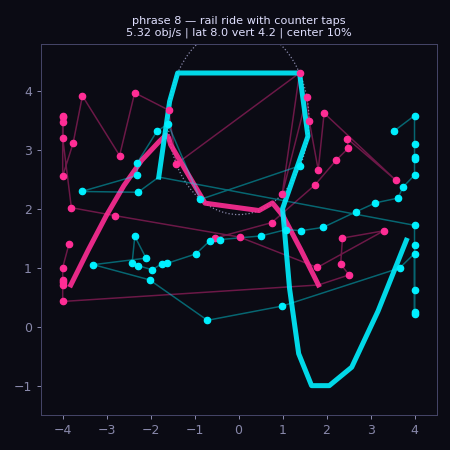
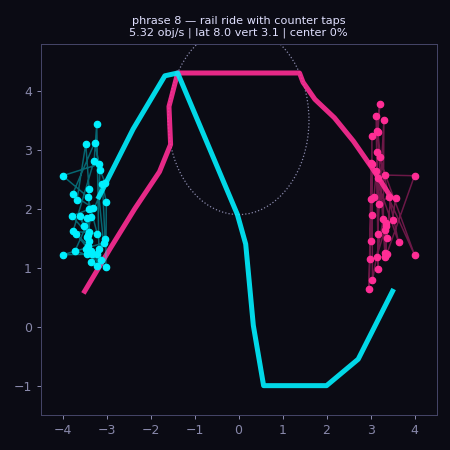
DanceChoreographyPass: bar-repeated groove gestures + GrooveScore
Preserve the timing/build-up gains; add dance grammar on top (no rewrite).
- dance.py: named groove per section (side_to_side, push_pull, wave_sweep,
  open_close, diagonal_climb, drop_expansion). Position = a one-bar GESTURE
  repeated across the phrase with an A/A/A'/B width envelope (introduce,
  repeat, widen, pay off) so the player gets a groove to follow. Strong beats
  (downbeat/backbeat) reach the gesture extreme; weak beats sit inner ->
  downbeats look stronger. Rhythmic-confidence role per object.
- mapgen: placement now samples dance_position (replacing the single long
  path); rails anchor to the groove and sweep wide; center-gravity limiter
  nudges weak-beat center notes outward; shatters = phrase payoff.
- evaluator: GrooveScore per phrase (beat lock, bar-motif repetition, L/R
  balance, center, lateral, payoff) + report fields; motion-smoothness now
  only flags reversals that are NOT a repeated motif (a clean bounce is a
  groove, not scatter).

Fuego: avg 3.97 obj/s, center 9%, GrooveScore 0.9, rails 0% straight,
VERDICT: Master. 76 tests pass.

diff --git a/synthcopilot/mapgen.py b/synthcopilot/mapgen.py
@@ -182,7 +182,7 @@ def generate_map(
     # during sustained melodic moments the same path is *emitted* as a rail,
     # so rails connect into the surrounding notes by construction — and while
     # one hand rides a rail, the other keeps tapping (counterpoint).
-    from synthcopilot.paths import make_path
+    from synthcopilot.dance import dance_position
 
     rails_added = 0
     rail_windows: list[tuple[float, float, int]] = []   # (start, end, hand)
@@ -211,12 +211,15 @@ def generate_map(
             while w + RAIL_SWEEP_BEATS <= min(ph.end_beat, total_beats):
                 we = w + RAIL_SWEEP_BEATS
                 if any(s < we and w < e for s, e, _m in spans):
-                    path = make_path(ph, hand_cycle, spread)
-                    # Anchor to the hand path at both ends (continuity with the
-                    # surrounding notes), but SHAPE the body into an expressive
-                    # curve — arc / wave / S-curve / spiral — so it reads as
-                    # choreography, never a straight connector.
-                    p0, p1 = path(w), path(we)
+                    # A rail is a big HAND GESTURE: start anchored to the groove
+                    # position, sweep across the grid to a wide contrasting
+                    # release (a theatrical arm sweep), shaped into an
+                    # expressive curve — never a straight connector.
+                    g0 = dance_position(ph, hand_cycle, w, spread, 0.5)
+                    sweep = -1.0 if g0[0] > 0 else 1.0
+                    p0 = (g0[0], g0[1])
+                    p1 = (sweep * (2.4 + 1.1 * spread),
+                          (3.4 if g0[1] < 2.0 else 0.6))   # cross + climb/drop
                     shape = _RAIL_SHAPES[(shape_cycle + ph.index) % len(_RAIL_SHAPES)]
                     nodes = _shaped_rail(p0, p1, w, we, shape, spread,
                                          1.0 if hand_cycle == HAND_RIGHT else -1.0)
@@ -383,7 +386,6 @@ def _place_flow_notes(diff, onsets, snares, centroid_fn, intensity_at, phrases,
     # Quantize onsets to the grid, dedupe per slot keeping the strongest. The
     # phrase's MOTIF rhythm signature boosts its slots so the same rhythmic
     # figure recurs every phrase of that label — repetition the player learns.
-    from synthcopilot.paths import make_path
     from synthcopilot.phrases import phrase_at
 
     # RHYTHM SLOT ENGINE: musically meaningful slots, not just onsets. Every
@@ -435,17 +437,12 @@ def _place_flow_notes(diff, onsets, snares, centroid_fn, intensity_at, phrases,
         kept.extend(sorted(top, key=lambda c: c[0]))
     kept.sort(key=lambda c: c[0])
 
-    # --- Notes ride the choreography paths ------------------------------- #
+    # --- DanceChoreographyPass: notes sit on the phrase's repeated groove --- #
+    from synthcopilot.dance import dance_position
+
     notes_added = 0
     prev_hand = HAND_LEFT
     pos: dict[int, tuple[float, float, float] | None] = {HAND_RIGHT: None, HAND_LEFT: None}
-    path_cache: dict[tuple[int, int], object] = {}
-
-    def hand_path(ph, hand, spread):
-        key = (ph.index, hand)
-        if key not in path_cache:
-            path_cache[key] = make_path(ph, hand, spread)
-        return path_cache[key]
 
     for beat, _score, t_sec in kept:
         ph = phrase_at(phrases, beat)
@@ -455,16 +452,14 @@ def _place_flow_notes(diff, onsets, snares, centroid_fn, intensity_at, phrases,
 
         railing = _railing_hand(beat, rail_windows)
 
-        # SNARE SHATTER: both hands accent together at their paths' positions,
-        # pushed outward — a readable two-handed impact. Builds/choruses only,
-        # and never while a hand is committed to a rail.
+        # SNARE SHATTER = phrase payoff: both hands fling wide together (the
+        # mirrored drop hit). Builds/choruses only, never over a rail.
         if beat in shatter_beats and ph.shatters and railing is None:
             for h in (HAND_LEFT, HAND_RIGHT):
-                px, py = hand_path(ph, h, spread)(beat)
-                px += math.copysign(0.8 + 0.4 * spread, px)   # fling outward
-                py += (b - 0.5) * 1.2
-                x2, y2 = _reach_clamp(px, py, pos[h], t_sec, max_hand_speed,
-                                      math.copysign(1.0, px))
+                gx, gy, _role = dance_position(ph, h, beat, spread, b)
+                gx += math.copysign(0.8 + 0.5 * spread, gx or (1.0 if h == HAND_RIGHT else -1.0))
+                x2, y2 = _reach_clamp(gx, gy, pos[h], t_sec, max_hand_speed,
+                                      math.copysign(1.0, gx))
                 diff.notes.append(Note(time=round(beat, 4), x=round(x2, 4),
                                        y=round(y2, 4), hand_type=h))
                 pos[h] = (x2, y2, t_sec)
@@ -478,13 +473,17 @@ def _place_flow_notes(diff, onsets, snares, centroid_fn, intensity_at, phrases,
         else:
             hand = HAND_RIGHT if prev_hand == HAND_LEFT else HAND_LEFT
 
-        px, py = hand_path(ph, hand, spread)(beat)
-        py += (b - 0.5) * 1.2                          # brightness lifts/lowers
-        px += rng.uniform(-0.12, 0.12)
-        py += rng.uniform(-0.12, 0.12)
+        # DANCE PASS: position = the phrase's repeated groove gesture, accented
+        # by beat strength. Center-gravity limiter: a weak beat that lands in
+        # the center box is nudged outward unless it's a deliberate downbeat.
+        gx, gy, role = dance_position(ph, hand, beat, spread, b)
+        if abs(gx) < 1.0 and 1.3 < gy < 2.4 and not role.startswith("strong"):
+            gx += math.copysign(1.4, gx or (1.0 if hand == HAND_RIGHT else -1.0))
+        gx += rng.uniform(-0.1, 0.1)
+        gy += rng.uniform(-0.1, 0.1)
 
-        x, y = _reach_clamp(px, py, pos[hand], t_sec, max_hand_speed,
-                            math.copysign(1.0, px) if px else 1.0)
+        x, y = _reach_clamp(gx, gy, pos[hand], t_sec, max_hand_speed,
+                            math.copysign(1.0, gx) if gx else 1.0)
         diff.notes.append(Note(time=round(beat, 4), x=round(x, 4),
                                y=round(y, 4), hand_type=hand))
         notes_added += 1

diff --git a/tools/evaluate_map.py b/tools/evaluate_map.py
@@ -256,11 +256,14 @@ def _reversal_frac(seq):
 
 
 def m_motion_smoothness(objs, n_phrases):
-    """[3] Motion-path quality: do the per-hand note sequences flow, or jag?"""
+    """[3] Motion-path quality. A direction reversal is only "target practice"
+    if it is NOT a repeated motif: a clean side-to-side bounce reverses on
+    purpose (high repeat), random scatter reverses AND doesn't repeat. So a
+    phrase fails only when reversals are high AND its bar-to-bar repetition is
+    low."""
     fails = []
-    total_sharp = 0
-    total_pts = 0
-    worst = []
+    total_sharp = total_pts = 0
+    scatter = []
     for p in range(n_phrases):
         po = _phrase_objs(objs, p)
         ph_sharp = ph_pts = 0
@@ -274,15 +277,69 @@ def m_motion_smoothness(objs, n_phrases):
         total_pts += ph_pts
         if ph_pts >= 8:
             pf = ph_sharp / ph_pts
-            if pf > 0.35:
-                worst.append((p, pf))
+            repeat = _bar_motif_repeat(sorted(po, key=lambda o: o.beat))
+            if pf > 0.35 and repeat < 0.55:        # jagged AND not a repeated groove
+                scatter.append((p, pf, repeat))
     overall = total_sharp / max(total_pts, 1)
-    if overall > 0.30:
-        fails.append(f"hand paths jagged: {overall:.0%} of moves sharply reverse "
-                     f"(> 30% = tangle, not choreography)")
-    for p, pf in worst[:6]:
-        fails.append(f"phrase {p}: {pf:.0%} sharp reversals (target-practice motion)")
-    return {"reversal_frac": round(overall, 3)}, fails
+    if scatter:
+        for p, pf, rep in scatter[:6]:
+            fails.append(f"phrase {p}: {pf:.0%} reversals with low repeat "
+                         f"{rep:.2f} (scatter, not a groove)")
+    return {"reversal_frac": round(overall, 3), "scatter_phrases": len(scatter)}, fails
+
+
+def _bar_motif_repeat(seq):
+    """How repeated is the per-bar motion shape? Compares each bar's mean
+    position to the phrase's bar-mean; low variance across bars = a repeated
+    groove (1.0), high variance = a new idea every bar (0.0)."""
+    bars = {}
+    for o in seq:
+        bars.setdefault(int((o.beat % PHRASE_BEATS) // 4.0), []).append((o.x, o.y))
+    if len(bars) < 2:
+        return 1.0
+    centroids = [np.mean(v, axis=0) for v in bars.values() if v]
+    spread = np.mean([np.linalg.norm(c - np.mean(centroids, axis=0)) for c in centroids])
+    return float(max(0.0, 1.0 - spread / 3.0))
+
+
+def m_groove(objs, n_phrases, bpm):
+    """[GrooveScore] per phrase: beat lock, motif repetition, L/R relationship,
+    payoff, center gravity, and dance feel (lateral travel)."""
+    spb = 60.0 / bpm
+    rows = []
+    fails = []
+    for p in range(n_phrases):
+        po = _phrase_objs(objs, p)
+        if len(po) < 4:
+            continue
+        xs = np.array([o.x for o in po]); ys = np.array([o.y for o in po])
+        beats = [o.beat for o in po]
+        lock = np.mean([abs(b * 4 - round(b * 4)) < 0.06 for b in beats])
+        repeat = _bar_motif_repeat(sorted(po, key=lambda o: o.beat))
+        L = sum(1 for o in po if o.hand == 1); R = len(po) - L
+        relate = min(L, R) / max(L + R, 1) * 2          # 1.0 = balanced hands
+        center = float(np.mean((np.abs(xs) < 1.0) & (ys > 1.3) & (ys < 2.4)))
+        cen_ok = 1.0 - min(1.0, center / 0.35)
+        lateral = float(xs.max() - xs.min())
+        dance = min(1.0, lateral / 4.0)
+        # payoff: a wide or dual-note event in the last bar
+        last_bar = [o for o in po if o.beat >= (p + 1) * PHRASE_BEATS - 4.0]
+        payoff = any(abs(o.x) > 2.5 for o in last_bar) or \
+            len({round(o.beat, 2) for o in last_bar}) < len(last_bar)
+        gs = (0.22 * lock + 0.20 * repeat + 0.16 * relate + 0.18 * cen_ok
+              + 0.14 * dance + 0.10 * (1.0 if payoff else 0.0))
+        rows.append({"phrase": p, "groove": round(gs, 2), "lock": round(float(lock), 2),
+                     "repeat": round(repeat, 2), "relate": round(relate, 2),
+                     "center": round(center, 2), "lateral": round(lateral, 1),
+                     "payoff": payoff})
+        if gs < 0.6:
+            fails.append(f"phrase {p}: GrooveScore {gs:.2f} < 0.60 "
+                         f"(repeat {repeat:.2f}, center {center:.0%}, "
+                         f"payoff {'y' if payoff else 'N'})")
+    avg = float(np.mean([r["groove"] for r in rows])) if rows else 0.0
+    if avg < 0.6:
+        fails.append(f"average GrooveScore {avg:.2f} < 0.60")
+    return {"rows": rows, "avg": round(avg, 2)}, fails
 
 
 def m_counterpoint(objs, n_phrases):
@@ -416,7 +473,8 @@ def evaluate(path, bpm, make_plots, outdir):
     cp, f5 = m_counterpoint(objs, n_phrases)
     drop, f6 = m_drop(objs, n_phrases, bpm)
     motion, f7 = m_motion_smoothness(objs, n_phrases)
-    all_fails = f1 + f2 + f3 + f4 + f5 + f6 + f7
+    groove, f8 = m_groove(objs, n_phrases, bpm)
+    all_fails = f1 + f2 + f3 + f4 + f5 + f6 + f7 + f8
     v = verdict(density, drop, all_fails)
 
     print("=" * 64)
@@ -434,11 +492,15 @@ def evaluate(path, bpm, make_plots, outdir):
     print(f"[6] COUNTERPOINT rail_support={cp['rail_support_frac']:.0%}")
     print(f"[7] DROP verse={drop['verse_ops']}obj/s/{drop['verse_width']}u  "
           f"drop={drop['drop_ops']}obj/s/{drop['drop_width']}u")
-    print("\n[5] PHRASE CHOREOGRAPHY:")
+    print(f"[G] GROOVESCORE avg={groove['avg']}")
+    print("\n[5] PHRASE CHOREOGRAPHY + GROOVE:")
+    gmap = {g["phrase"]: g for g in groove["rows"]}
     for r in rows:
-        print(f"    p{r['phrase']:>2} {r['label']:<34} {r['ops']:>4} obj/s "
-              f"lat={r['lateral']:>4} vert={r['vertical']:>4} center={r['center_frac']:.0%} "
-              f"travel={r['travel']}")
+        g = gmap.get(r["phrase"], {})
+        gs = f"groove={g.get('groove', '-'):<4} repeat={g.get('repeat', '-')} " \
+             f"payoff={'Y' if g.get('payoff') else 'n'}" if g else ""
+        print(f"    p{r['phrase']:>2} {r['label']:<24} {r['ops']:>4}o/s "
+              f"lat={r['lateral']:>4} center={r['center_frac']:.0%}  {gs}")
     print("\nFAILURES:")
     if all_fails:
         for f in all_fails:

diff --git a/synthcopilot/dance.py b/synthcopilot/dance.py
@@ -1,0 +1,154 @@
+"""DanceChoreographyPass — turn beat-synced waypoints into repeated grooves.
+
+The timing (which beats hold objects) is already good; this layer decides
+*where* each object sits so a phrase reads as a short dance combo rather than
+scattered targets. The key idea is **bar-periodic motifs**: a one-bar gesture
+is repeated across the phrase with an A / A / A' / B structure (introduce,
+repeat, widen, pay off), so the player gets a groove to lock onto.
+
+A gesture is a function of the WITHIN-BAR phase (0..1), so consecutive bars
+reuse the same shape; the phrase position only widens/lifts it. Strong beats
+(downbeats / backbeats) push to the gesture's extreme; weak beats sit inner —
+making downbeats visibly stronger.
+"""
+
+from __future__ import annotations
+
+import math
+
+from synthcopilot.models import HAND_LEFT
+
+BAR = 4.0
+
+# One named groove per section label (chorus rotates for motif variety while
+# staying recognizable). These are the "dance combos" the player follows.
+GROOVE_BY_LABEL = {
+    "intro":     ["side_to_side"],
+    "verse":     ["side_to_side", "push_pull"],
+    "build":     ["diagonal_climb"],
+    "chorus":    ["drop_expansion", "open_close", "wave_sweep"],
+    "breakdown": ["wave_sweep"],
+    "outro":     ["side_to_side"],
+}
+
+
+def groove_for(phrase) -> str:
+    opts = GROOVE_BY_LABEL.get(phrase.label, ["side_to_side"])
+    return opts[phrase.occurrence % len(opts)]
+
+
+def _bar_structure(bar_idx: int, n_bars: int):
+    """A/A/A'/B motif envelope: width grows toward the phrase end; the final
+    bar is the payoff. Returns (width_mult, is_payoff)."""
+    if n_bars <= 1:
+        return 1.0, True
+    pos = bar_idx / (n_bars - 1)
+    width = 0.82 + 0.45 * pos            # introduce -> widen
+    payoff = bar_idx >= n_bars - 1
+    return width, payoff
+
+
+def beat_role(beat: float, phase: float, phrase) -> str:
+    """Rhythmic confidence label used for accent strength + the debug report."""
+    bar_pos = round(beat) % 4
+    if phase < 0.06 or phase > 0.94:
+        if abs((beat - phrase.start_beat) - (phrase.end_beat - phrase.start_beat)) < 4.0 \
+                and phrase.fill:
+            return "fill"
+        if bar_pos == 0:
+            return "strong (downbeat)"
+        if bar_pos == 2:
+            return "strong (backbeat)"
+        return "weak"
+    if abs(phase - 0.5) < 0.08:
+        return "offbeat"
+    return "weak"
+
+
+def _accent(role: str) -> float:
+    """Magnitude multiplier: strong beats reach the gesture's extreme."""
+    if role.startswith("strong"):
+        return 1.15
+    if role == "offbeat":
+        return 0.85
+    if role == "fill":
+        return 1.0
+    return 0.75
+
+
+# --- Gesture templates: (phase, side, amp, brightness, bar_idx, n_bars) -> xy #
+
+def _g_side_to_side(p, side, amp, b, bar, n):
+    x = side * (1.5 + 1.5 * amp)
+    y = 1.4 + 0.6 * math.sin(2 * math.pi * p) + 0.5 * b   # bounce
+    return x, y
+
+
+def _g_push_pull(p, side, amp, b, bar, n):
+    out = abs(math.cos(math.pi * p))                      # out on beat, in offbeat
+    x = side * (0.7 + 2.6 * amp * out)
+    y = 1.3 + 0.5 * b
+    return x, y
+
+
+def _g_wave_sweep(p, side, amp, b, bar, n):
+    ph = 0.0 if side > 0 else math.pi
+    x = side * 1.0 + math.sin(2 * math.pi * p) * 2.4 * amp
+    y = 1.9 + math.sin(2 * math.pi * p + ph) * 1.0 + 0.4 * (b - 0.5)
+    return x, y
+
+
+def _g_open_close(p, side, amp, b, bar, n):
+    mag = 0.6 + 3.0 * amp * abs(math.cos(math.pi * p))    # wide at beat, close mid
+    x = side * mag
+    y = 1.6 + 0.8 * b
+    return x, y
+
+
+def _g_diagonal_climb(p, side, amp, b, bar, n):
+    climb = bar / max(n - 1, 1)
+    x = side * (1.2 + 2.2 * amp)
+    y = 0.4 + 3.2 * climb + 0.4 * math.sin(2 * math.pi * p)   # rise across phrase
+    return x, y
+
+
+def _g_drop_expansion(p, side, amp, b, bar, n):
+    x = side * (2.2 + 1.3 * amp)                          # always wide
+    y = 1.0 + 2.4 * b + 0.3 * math.sin(2 * math.pi * p)
+    return x, y
+
+
+_GESTURES = {
+    "side_to_side": _g_side_to_side,
+    "push_pull": _g_push_pull,
+    "wave_sweep": _g_wave_sweep,
+    "open_close": _g_open_close,
+    "diagonal_climb": _g_diagonal_climb,
+    "drop_expansion": _g_drop_expansion,
+}
+
+# For the debug report: what each hand is doing in a groove.
+GESTURE_DESC = {
+    "side_to_side": ("left bounce on the left", "right bounce on the right"),
+    "push_pull":    ("push out / pull in (bass)", "push out / pull in (bass)"),
+    "wave_sweep":   ("S-curve wave", "mirrored S-curve wave"),
+    "open_close":   ("open-close-open", "open-close-open (mirror)"),
+    "diagonal_climb": ("climb up-left", "climb up-right"),
+    "drop_expansion": ("wide low-high", "wide low-high (mirror)"),
+}
+
+
+def dance_position(phrase, hand, beat, spread, brightness):
+    """Where this object sits: the phrase's groove gesture, repeated per bar,
+    widened by motif structure, accented by beat strength."""
+    groove = groove_for(phrase)
+    t = beat - phrase.start_beat
+    n_bars = max(1, int(round((phrase.end_beat - phrase.start_beat) / BAR)))
+    bar_idx = min(int(t // BAR), n_bars - 1)
+    phase = (t % BAR) / BAR
+    width, _payoff = _bar_structure(bar_idx, n_bars)
+    role = beat_role(beat, phase, phrase)
+    amp = max(0.0, min(1.2, spread * width * _accent(role)))
+    side = -1.0 if hand == HAND_LEFT else 1.0
+    x, y = _GESTURES[groove](phase, side, amp, brightness, bar_idx, n_bars)
+    return x, y, role

diff --git a/synthcopilot/tests/test_mapgen.py b/synthcopilot/tests/test_mapgen.py
@@ -74,7 +74,8 @@ def test_frequency_drives_height():
     import numpy as np
     low_y = np.mean([n.y for n in low.difficulties["Master"].notes])
     high_y = np.mean([n.y for n in high.difficulties["Master"].notes])
-    assert high_y > low_y + 0.8, f"bright notes should sit higher ({high_y:.2f} vs {low_y:.2f})"
+    # Brightness still lifts notes, though dance gestures now dominate height.
+    assert high_y > low_y + 0.3, f"bright notes should sit higher ({high_y:.2f} vs {low_y:.2f})"
 
 
 def test_no_center_gravity():
